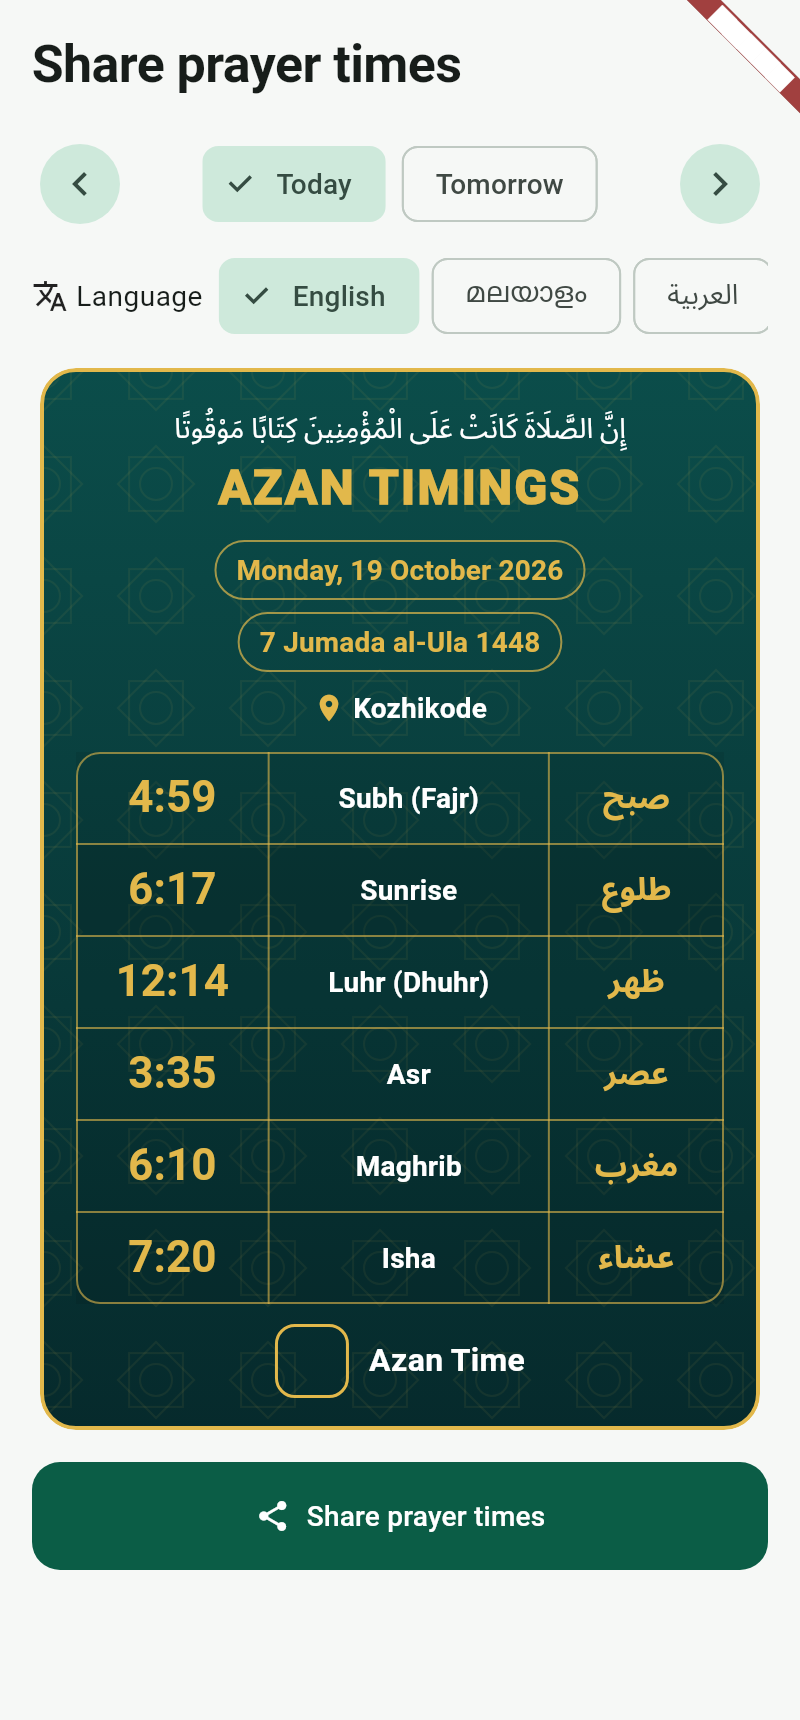
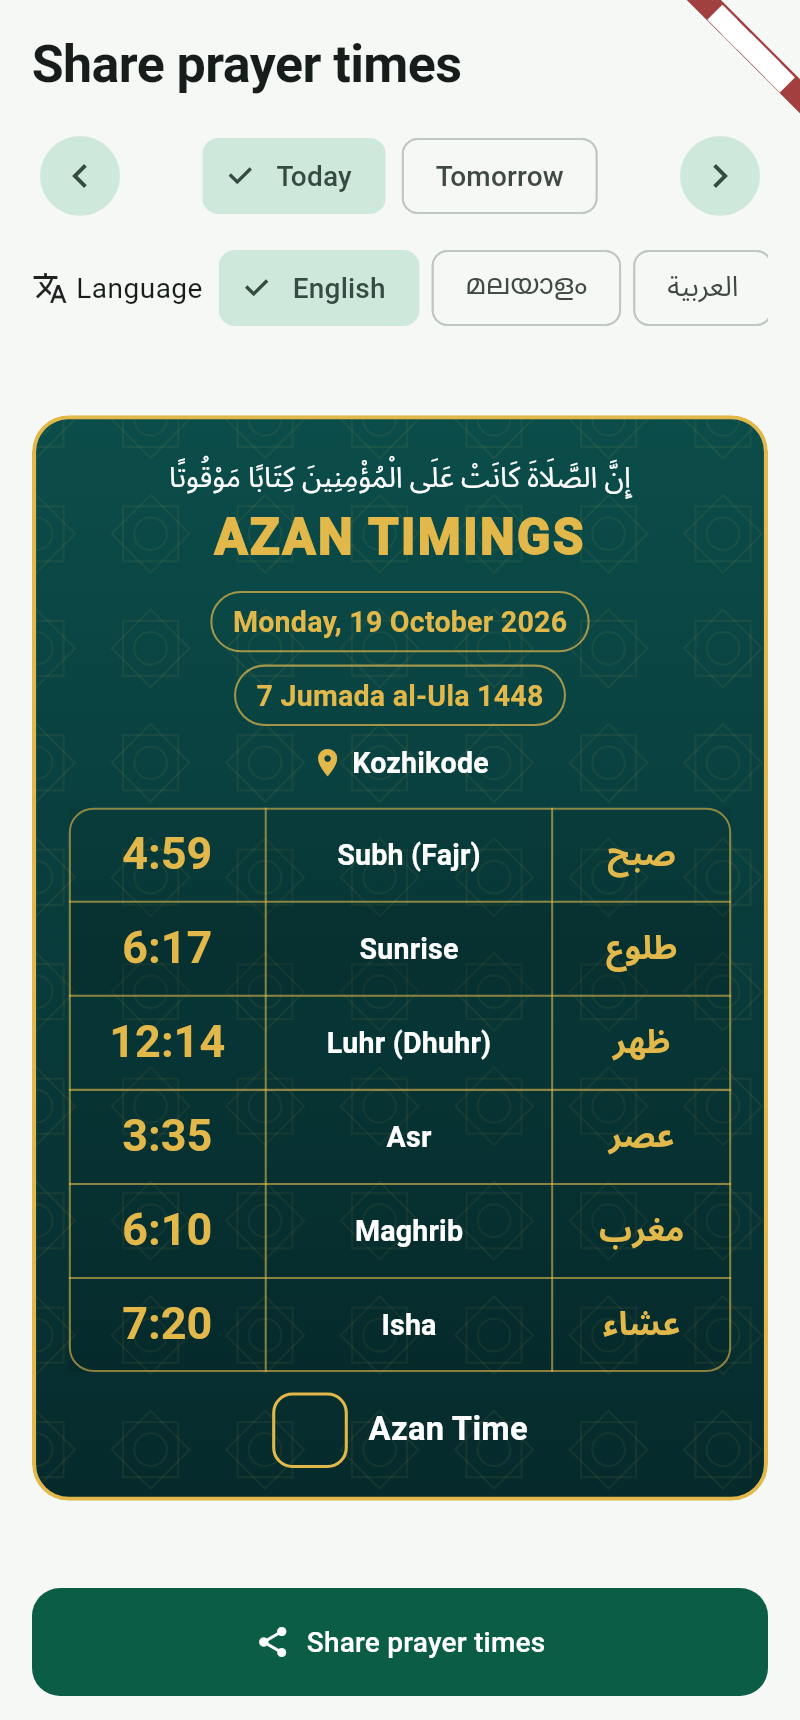
Waqt: share screen and CSV example fit the screen
The poster scales to the space left with the Share button fixed at the
bottom; the timetable's CSV example keeps each line whole.

Claude-Session: https://claude.ai/code/session_011RQnYZdmTi7RLwqvGgsba4

diff --git a/lib/screens/share_screen.dart b/lib/screens/share_screen.dart
@@ -77,111 +77,117 @@ class _ShareScreenState extends State<ShareScreen> {
     final lang = _lang ?? settings.lang;
     return Scaffold(
       appBar: AppBar(title: Text(s.shareTimes)),
-      body: ListView(
-        padding: const EdgeInsets.fromLTRB(16, 4, 16, 24),
-        children: [
-          Row(
-            children: [
-              IconButton.filledTonal(
-                tooltip: s.previousDay,
-                onPressed: () => setState(
-                  () => _date = _date.subtract(const Duration(days: 1)),
-                ),
-                icon: const Icon(Icons.chevron_left),
-              ),
-              Expanded(
-                child: Wrap(
-                  alignment: WrapAlignment.center,
-                  spacing: 8,
-                  children: [
-                    ChoiceChip(
-                      label: Text(s.today),
-                      selected: offset == 0,
-                      onSelected: (_) => setState(() => _date = today),
-                    ),
-                    ChoiceChip(
-                      label: Text(s.tomorrow),
-                      selected: offset == 1,
-                      onSelected: (_) => setState(
-                        () => _date = today.add(const Duration(days: 1)),
-                      ),
-                    ),
-                  ],
-                ),
-              ),
-              IconButton.filledTonal(
-                tooltip: s.nextDay,
-                onPressed: () =>
-                    setState(() => _date = _date.add(const Duration(days: 1))),
-                icon: const Icon(Icons.chevron_right),
-              ),
-            ],
-          ),
-          const SizedBox(height: 8),
-          SizedBox(
-            height: 48,
-            child: ListView(
-              key: const Key('poster-languages'),
-              scrollDirection: Axis.horizontal,
+      // Everything on one screen: the poster shrinks to the space left.
+      body: Padding(
+        padding: const EdgeInsets.fromLTRB(16, 0, 16, 8),
+        child: Column(
+          children: [
+            Row(
               children: [
-                Padding(
-                  padding: const EdgeInsetsDirectional.only(end: 8),
-                  child: Row(
+                IconButton.filledTonal(
+                  tooltip: s.previousDay,
+                  onPressed: () => setState(
+                    () => _date = _date.subtract(const Duration(days: 1)),
+                  ),
+                  icon: const Icon(Icons.chevron_left),
+                ),
+                Expanded(
+                  child: Wrap(
+                    alignment: WrapAlignment.center,
+                    spacing: 8,
                     children: [
-                      const Icon(Icons.translate, size: 18),
-                      const SizedBox(width: 4),
-                      Text(s.language),
+                      ChoiceChip(
+                        label: Text(s.today),
+                        selected: offset == 0,
+                        onSelected: (_) => setState(() => _date = today),
+                      ),
+                      ChoiceChip(
+                        label: Text(s.tomorrow),
+                        selected: offset == 1,
+                        onSelected: (_) => setState(
+                          () => _date = today.add(const Duration(days: 1)),
+                        ),
+                      ),
                     ],
                   ),
                 ),
-                for (final l in Lang.values)
-                  Padding(
-                    padding: const EdgeInsetsDirectional.only(end: 6),
-                    child: ChoiceChip(
-                      key: ValueKey('poster-${l.name}'),
-                      label: Text(l.nativeName),
-                      selected: lang == l,
-                      onSelected: (_) => setState(() => _lang = l),
-                    ),
+                IconButton.filledTonal(
+                  tooltip: s.nextDay,
+                  onPressed: () => setState(
+                    () => _date = _date.add(const Duration(days: 1)),
                   ),
+                  icon: const Icon(Icons.chevron_right),
+                ),
               ],
             ),
-          ),
-          const SizedBox(height: 12),
-          Center(
-            child: ClipRRect(
-              borderRadius: BorderRadius.circular(18),
-              child: AnimatedSwitcher(
-                duration: const Duration(milliseconds: 300),
-                child: RepaintBoundary(
-                  key: _poster,
-                  child: KeyedSubtree(
-                    key: ValueKey((_date, lang)),
-                    child: SizedBox(
-                      width: 360,
-                      child: PrayerPoster(day: day, lang: lang),
+            const SizedBox(height: 8),
+            SizedBox(
+              height: 48,
+              child: ListView(
+                key: const Key('poster-languages'),
+                scrollDirection: Axis.horizontal,
+                children: [
+                  Padding(
+                    padding: const EdgeInsetsDirectional.only(end: 8),
+                    child: Row(
+                      children: [
+                        const Icon(Icons.translate, size: 18),
+                        const SizedBox(width: 4),
+                        Text(s.language),
+                      ],
+                    ),
+                  ),
+                  for (final l in Lang.values)
+                    Padding(
+                      padding: const EdgeInsetsDirectional.only(end: 6),
+                      child: ChoiceChip(
+                        key: ValueKey('poster-${l.name}'),
+                        label: Text(l.nativeName),
+                        selected: lang == l,
+                        onSelected: (_) => setState(() => _lang = l),
+                      ),
+                    ),
+                ],
+              ),
+            ),
+            const SizedBox(height: 8),
+            Expanded(
+              child: FittedBox(
+                child: ClipRRect(
+                  borderRadius: BorderRadius.circular(18),
+                  child: AnimatedSwitcher(
+                    duration: const Duration(milliseconds: 300),
+                    child: RepaintBoundary(
+                      key: _poster,
+                      child: KeyedSubtree(
+                        key: ValueKey((_date, lang)),
+                        child: SizedBox(
+                          width: 360,
+                          child: PrayerPoster(day: day, lang: lang),
+                        ),
+                      ),
                     ),
                   ),
                 ),
               ),
             ),
-          ),
-          const SizedBox(height: 16),
-          FilledButton.icon(
-            style: FilledButton.styleFrom(
-              minimumSize: const Size.fromHeight(54),
-            ),
-            icon: _busy
-                ? const SizedBox(
-                    width: 20,
-                    height: 20,
-                    child: CircularProgressIndicator(strokeWidth: 2),
-                  )
-                : const Icon(Icons.share),
-            label: Text(s.shareTimes),
-            onPressed: _busy ? null : () => _share(day, lang),
-          ),
-        ],
+          ],
+        ),
+      ),
+      bottomNavigationBar: SafeArea(
+        minimum: const EdgeInsets.fromLTRB(16, 4, 16, 12),
+        child: FilledButton.icon(
+          style: FilledButton.styleFrom(minimumSize: const Size.fromHeight(54)),
+          icon: _busy
+              ? const SizedBox(
+                  width: 20,
+                  height: 20,
+                  child: CircularProgressIndicator(strokeWidth: 2),
+                )
+              : const Icon(Icons.share),
+          label: Text(s.shareTimes),
+          onPressed: _busy ? null : () => _share(day, lang),
+        ),
       ),
     );
   }

diff --git a/tool/screenshots/screenshot_test.dart b/tool/screenshots/screenshot_test.dart
@@ -296,6 +296,28 @@ void main() {
       ),
     );
     await shot(tester, key, 'en_12_share');
+    // Small phone, large text.
+    await tester.binding.setSurfaceSize(const Size(360, 720));
+    await tester.pumpWidget(
+      RepaintBoundary(
+        key: key,
+        child: AppScope(
+          settings: settings..lang = Lang.kn,
+          child: MaterialApp(
+            theme: buildTheme(Brightness.light),
+            builder: (context, child) => MediaQuery(
+              data: MediaQuery.of(context)
+                  .copyWith(textScaler: const TextScaler.linear(1.3)),
+              child: child!,
+            ),
+            home: ShareScreen(date: settings.today),
+          ),
+        ),
+      ),
+    );
+    await shot(tester, key, 'kn_12_share_small');
+    settings.lang = Lang.en;
+    await tester.binding.setSurfaceSize(const Size(400, 860));
     for (final l in [Lang.kn, Lang.ml, Lang.ar]) {
       await tester.pumpWidget(
         RepaintBoundary(

diff --git a/lib/screens/timetable_screen.dart b/lib/screens/timetable_screen.dart
@@ -182,7 +182,12 @@ class TimetableScreen extends StatelessWidget {
               color: Theme.of(context).colorScheme.surfaceContainerHigh,
               borderRadius: BorderRadius.circular(8),
             ),
-            child: SelectableText(_example, style: mono),
+            // Each line whole (shrunk to fit), never broken mid-number.
+            child: FittedBox(
+              fit: BoxFit.scaleDown,
+              alignment: AlignmentDirectional.centerStart,
+              child: Text(_example, style: mono, softWrap: false),
+            ),
           ),
         ],
       ),
